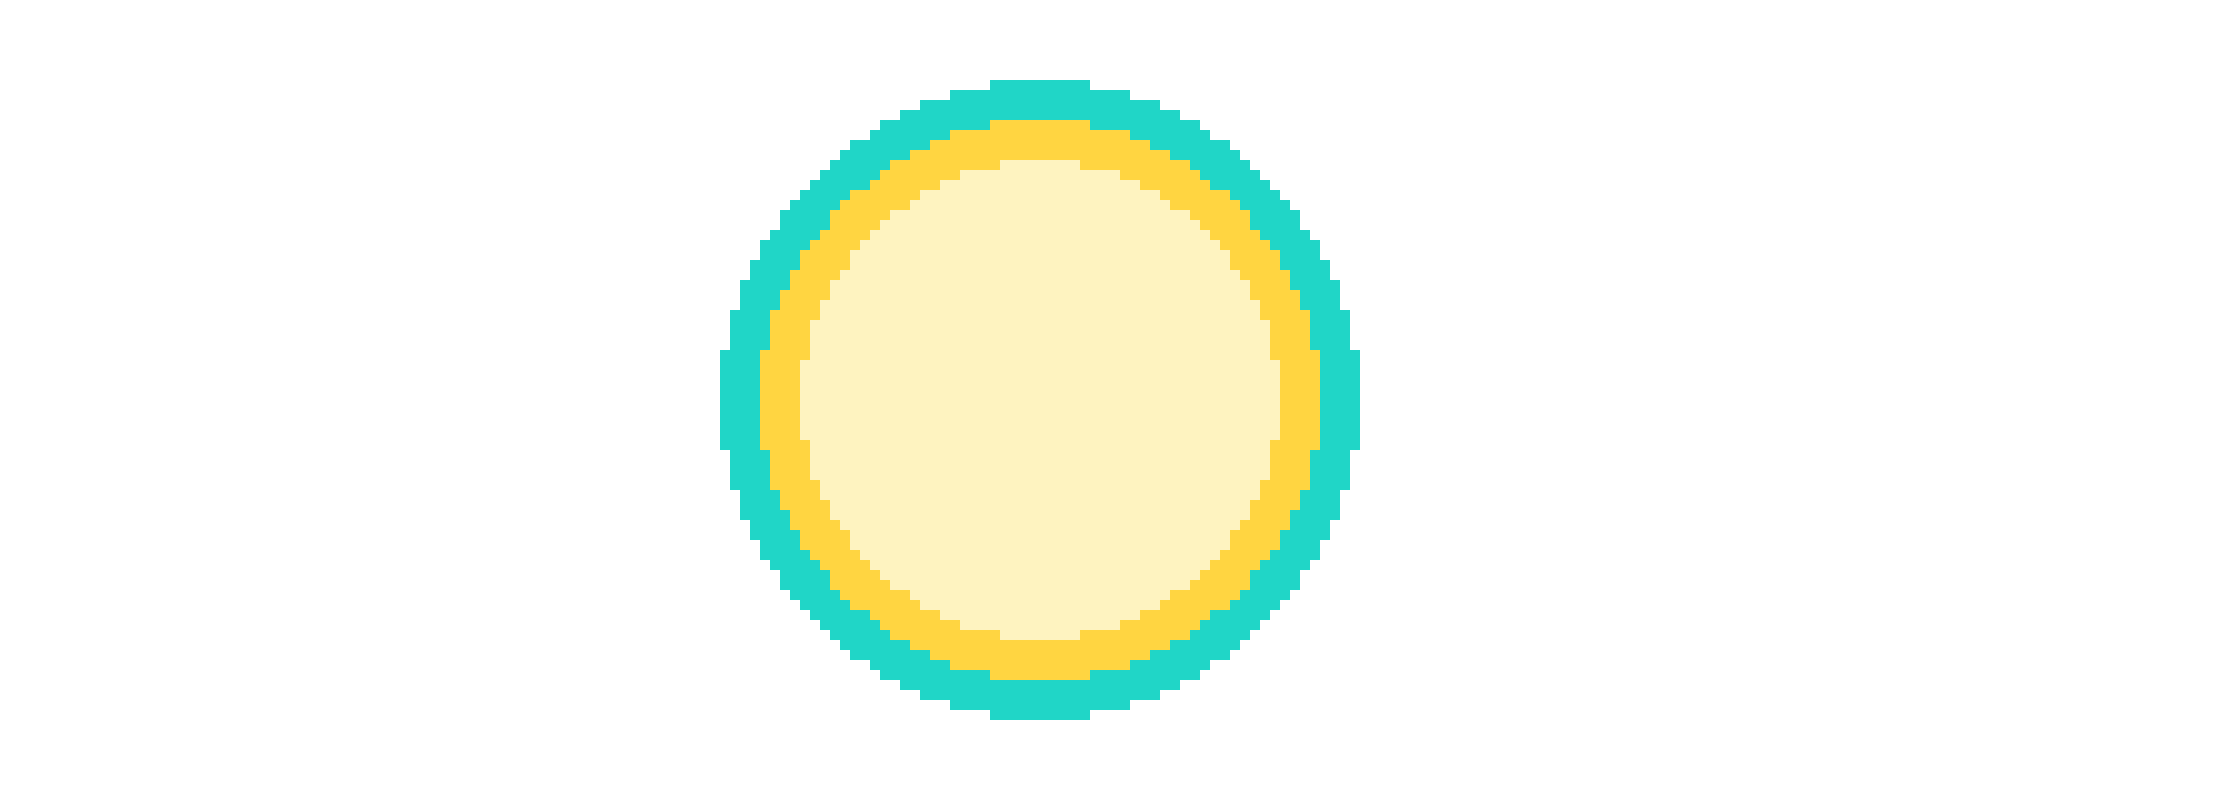
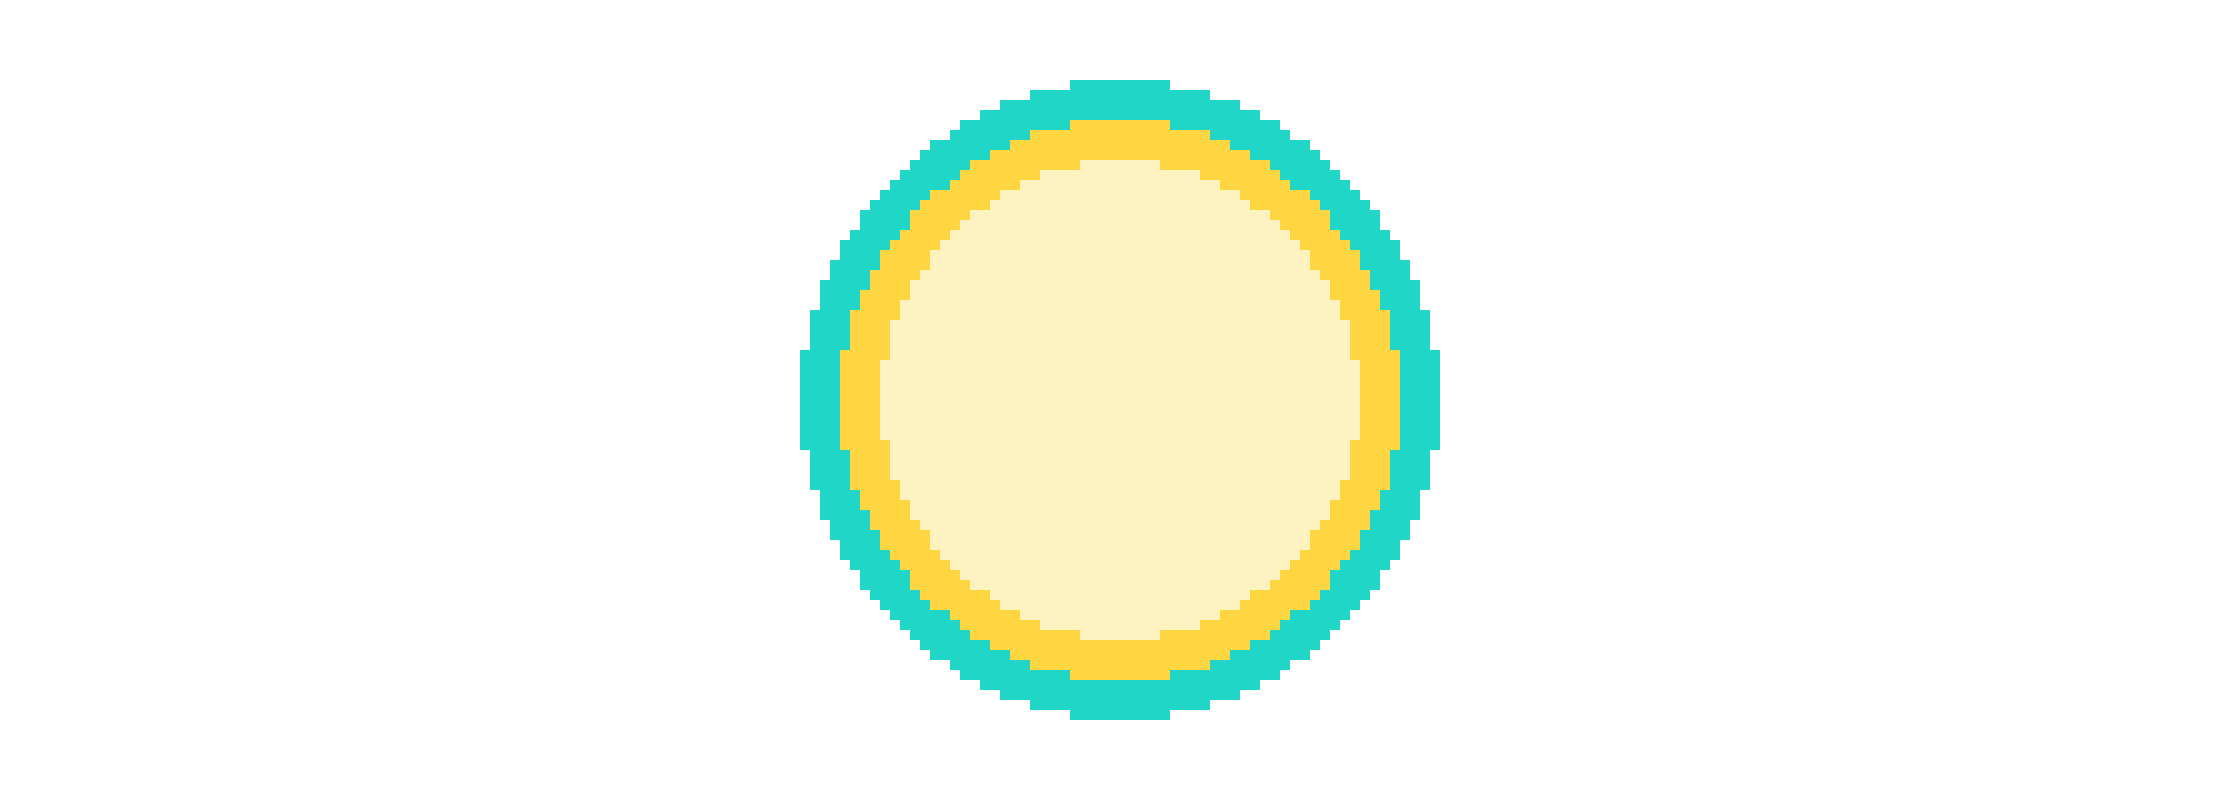
SunCentered

Changed region(s): [[0.3125, 0.0938, 0.6562, 0.9062]]

diff --git a/style.css b/style.css
@@ -71,10 +71,9 @@ img.GuyMed {
   top: -20%;
   left: 50%; */
   width: 5%;
-  z-index: 10;
+  z-index: 100;
   position: fixed;
   bottom: -100%;
-  left: 25%;
   animation: up-down ease-in-out;
   animation-timeline: scroll();
 }
@@ -94,11 +93,11 @@ img.Guy {
   top: 0%;
   left: 0px;
   z-index: 4;
-  animation: move-down linear;
+  animation: move-down ease-in;
   animation-timeline: scroll();
 }
 @keyframes move-down {
-  50% { top: 100% }
+  40% { top: 100% }
   100% { top: 100% }
 }
 
